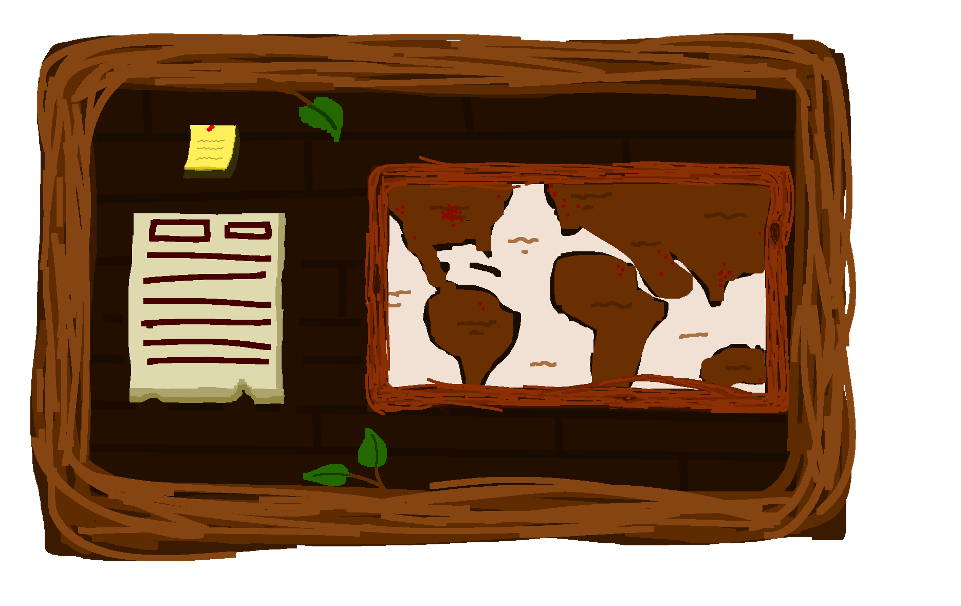
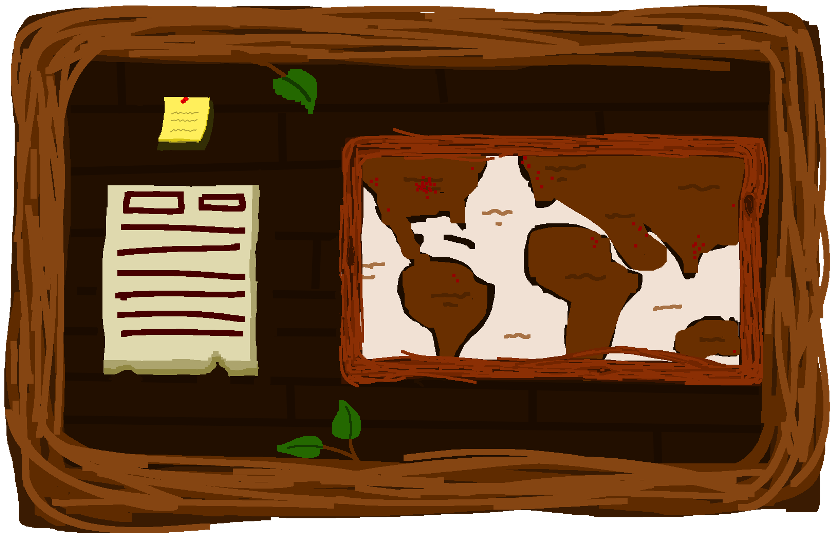
Button positioned over map on bulletin board

diff --git a/src/components/HomeView.vue b/src/components/HomeView.vue
@@ -1,12 +1,18 @@
 <template>
-  <img src="../assets/images/Attention.png">
-  <button @click="syncINat">Report Findings!</button>
+<button @click="syncINat">Report Findings!</button>
+  <img src="../assets/images/Hub World.png" class="w-screen h-screen absolute top-0 left-0 z-0">
+  <BulletinBoard />
+
   <p v-for="obs in observations" class="font-pixel bg-yellow-200">{{obs.species_guess}}</p>
 </template>
 
 <script>
+import BulletinBoard from './BulletinBoard.vue';
 export default {
-data() {
+  components: {
+    BulletinBoard,
+  },
+  data() {
     return {
       observations: [],
     }

diff --git a/src/components/BulletinBoard.vue b/src/components/BulletinBoard.vue
@@ -1,3 +1,14 @@
 <template>
-  <img src="../assets/images/Bulletin Board.png">
+  <div class="absolute left-0 right-0 top-0 bottom-0 w-52 h-52 pb-12 m-auto">
+    <img src="../assets/images/Bulletin Board.png">
+    <button class="absolute right-6 top-8 w-24 h-16 bg-white"></button>
+  </div>
 </template>
+<script>
+export default {
+data() {
+    return {
+    }
+  },
+}
+</script>

diff --git a/src/App.vue b/src/App.vue
@@ -3,7 +3,7 @@ import { RouterLink, RouterView } from 'vue-router'
 </script>
 
 <template>
-  <div class="w-full, h-full">
+  <div class="w-full h-full">
     <RouterView />
   </div>
 </template>

diff --git a/src/components/Object.vue b/src/components/Object.vue
@@ -1,0 +1,3 @@
+<template>
+  <img src="../assets/images/Crow Neutral.png">
+</template>
